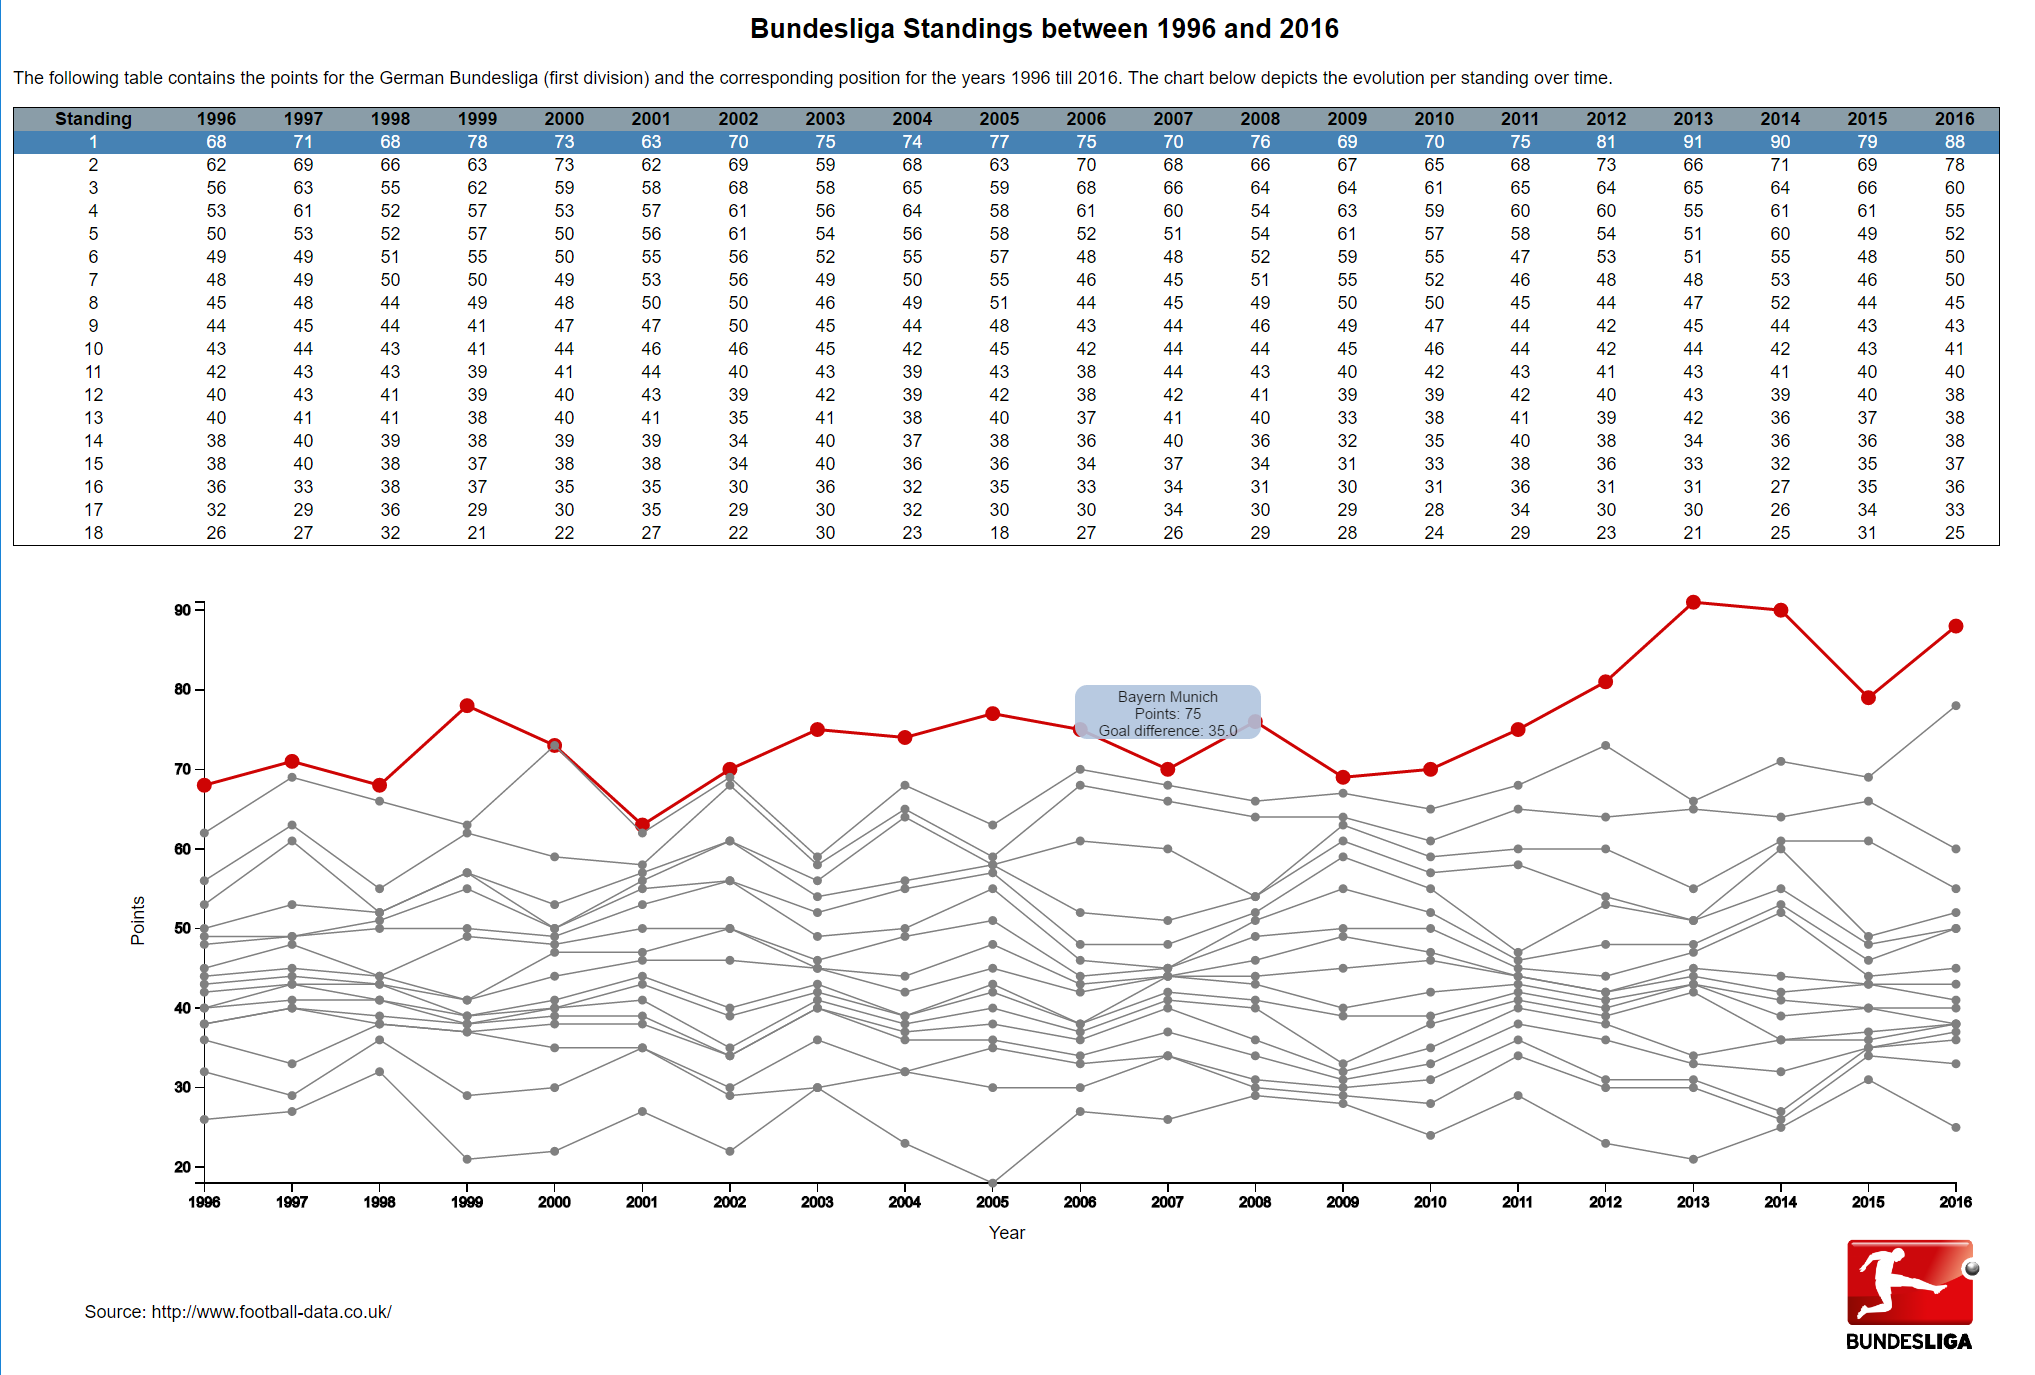
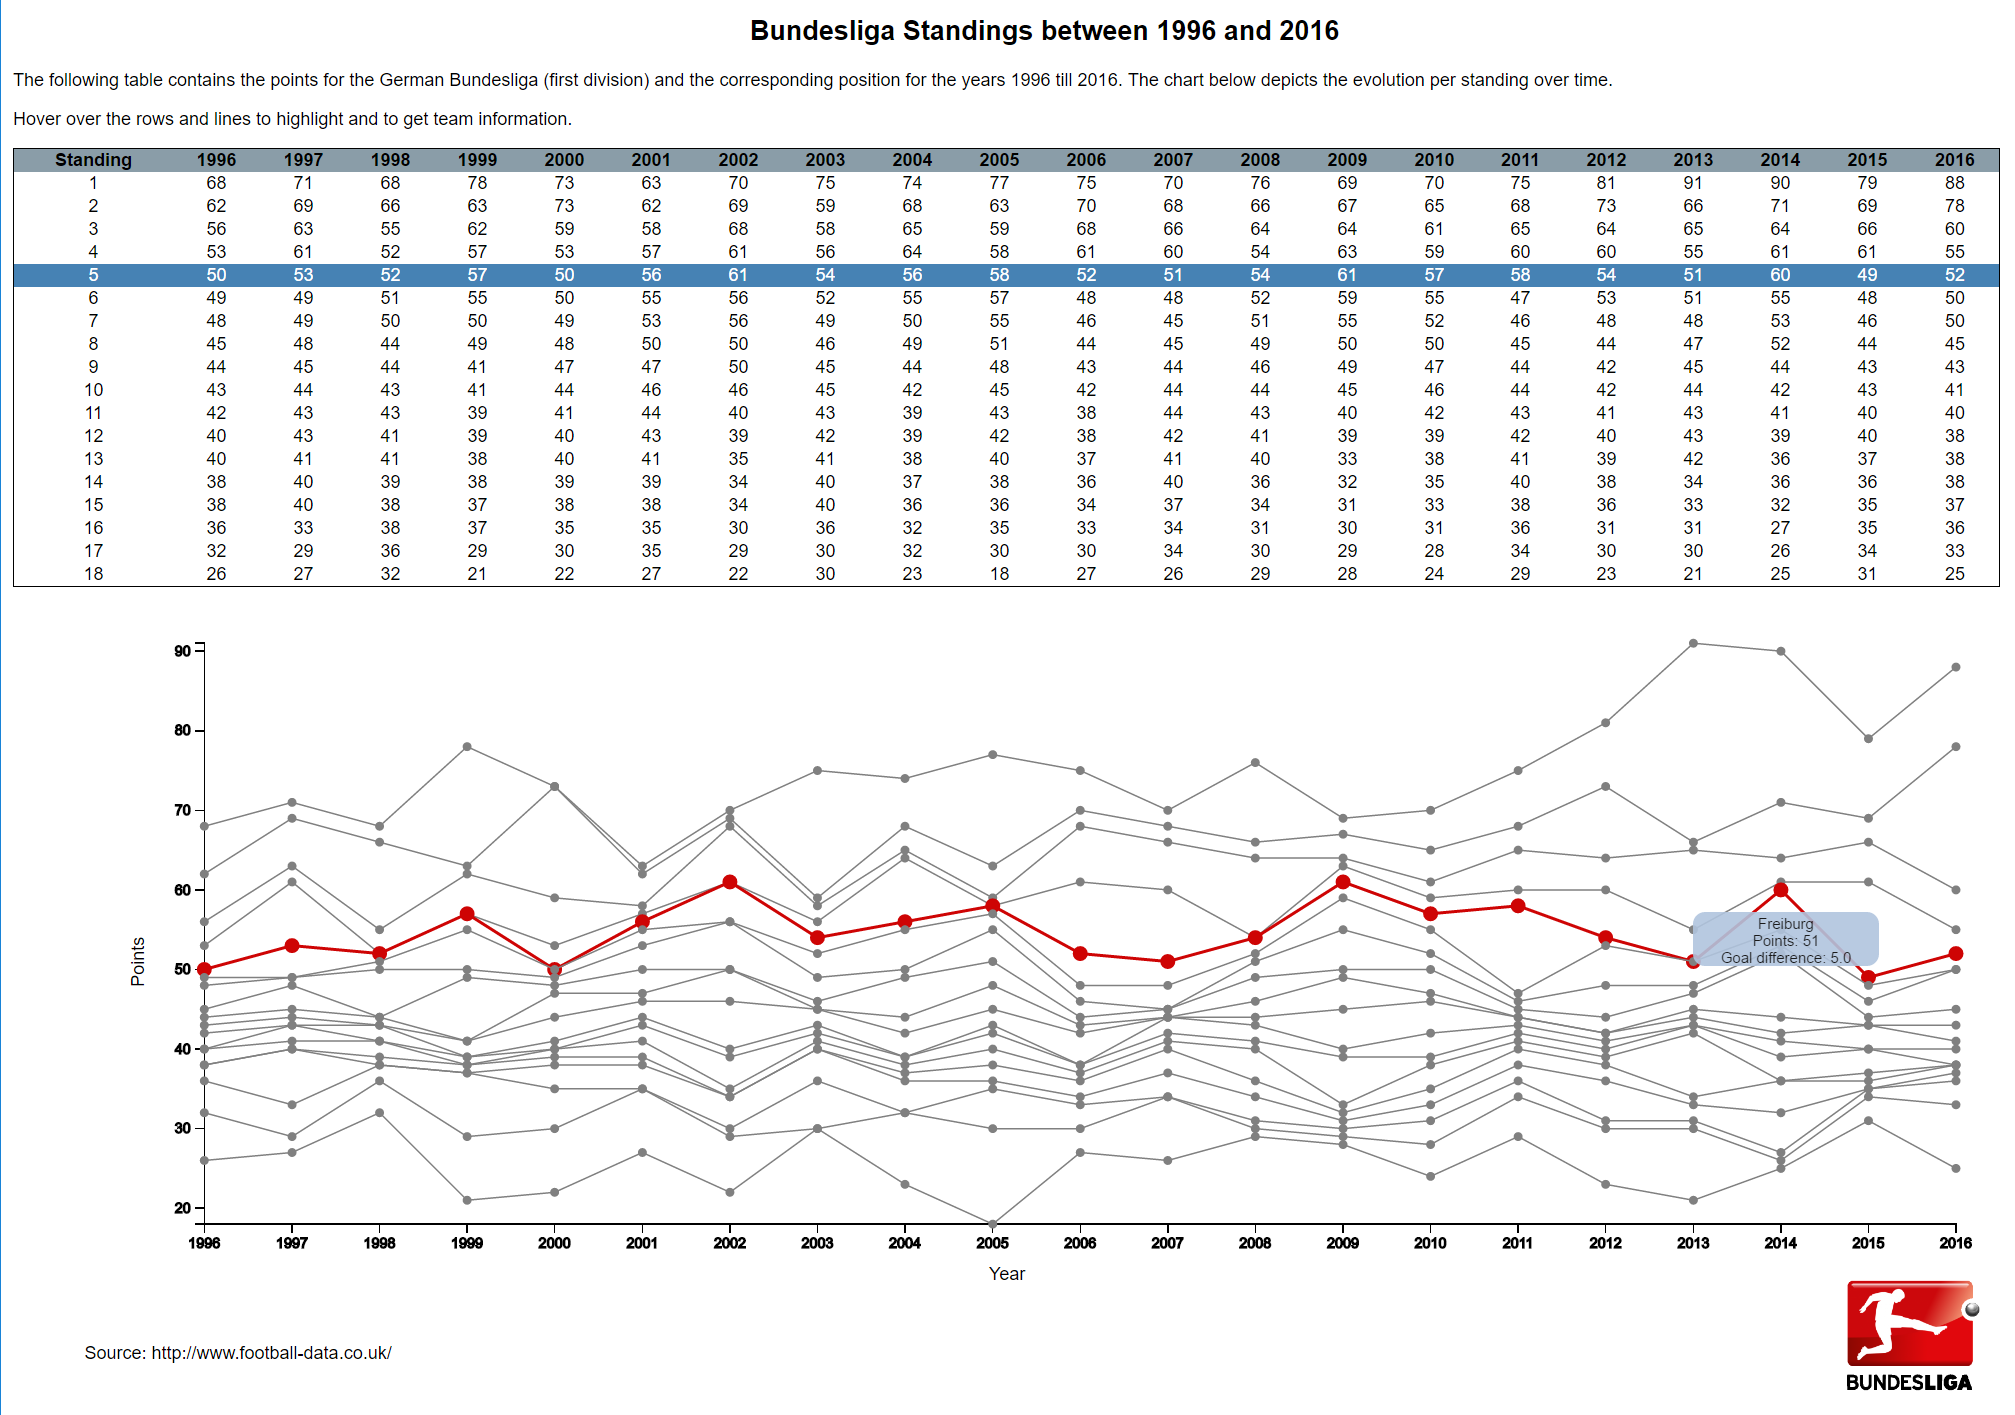
Signed-off-by: Pete <p.eisenschmidt@gmail.com>

diff --git a/index.html b/index.html
@@ -3,7 +3,6 @@
 <head>
   <meta charset="utf-8">
   <script src="http://d3js.org/d3.v3.min.js"></script>
-  <script src="http://labratrevenge.com/d3-tip/javascripts/d3.tip.v0.6.3.js"></script>
     <style>
 	body { font: 12px Arial;
 	}
@@ -275,7 +274,7 @@
 							})
 							.attr('class', 'myCells')
 							.on("mouseover", function(d) {
-								if (d.length === 1) {
+								if (d.length === 1 || d.length === 2) {
 									div.style("opacity", 0) // this indicates the first column (standing) for which no tooltip should be shown
 								} else {
 									div.style("opacity", .9);		

diff --git a/README.md b/README.md
@@ -88,6 +88,8 @@ Thirdly, people said that it was good to highlight the line when hovering over a
 highlighting a row when hovering over a line. As all line are displayed at the same time you cannot see which position that line corresponds to. So, the 
 visualization now allows interactivity in both directions.
 
+I also aligned the circles of the line chart with the table columns, so that it makes it easier to find the year that you are looking at.
+
 Lastly, as people told me that they would like to know which teams are behind the numbers (to see for example which team has actually dominated the Bundesliga
 in recent years, as not everyone knows that) I added tooltips in both the table and the line chart that display the team name, the number of points, and
 also the goal difference as often this is needed as tie breaker.  
